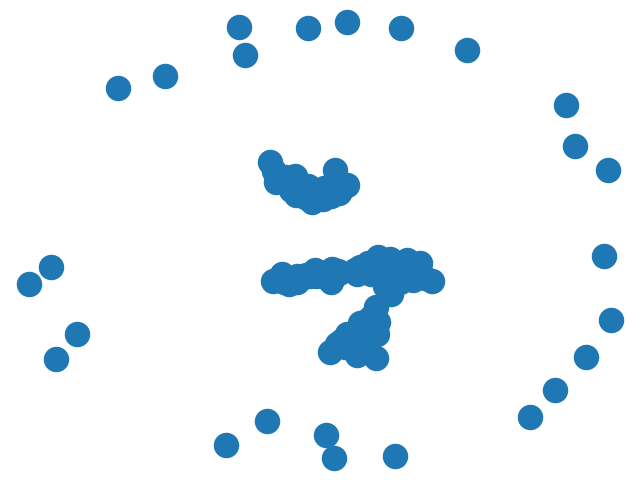
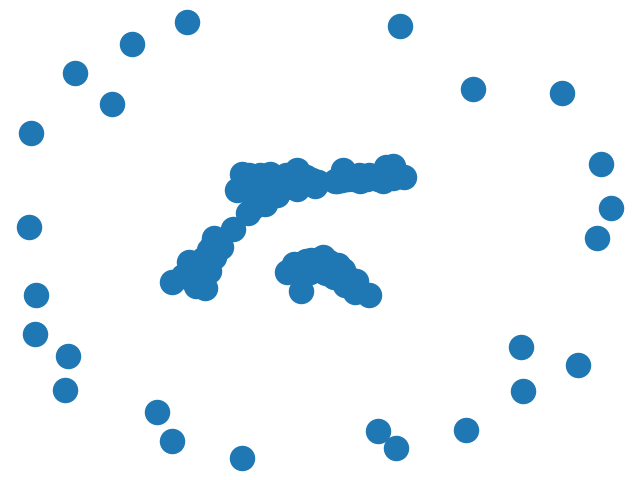
letters dataset results

diff --git a/dbscan_sklearn_large.py b/dbscan_sklearn_large.py
@@ -8,7 +8,7 @@ import networkx as nx
 import matplotlib.pyplot as plt
 import time
 import dbscanpp as dbp
-
+import scipy
 
 from sklearn.cluster import DBSCAN
 from sklearn import metrics
@@ -58,7 +58,15 @@ def data_load(dataset_name):
         eps_range = np.arange(start=250, stop=800, step=10)
 
     elif dataset_name == 'letters':
-        data = pd.read_csv('/media/kaveen/D/Datasets/DBScan_Data/G_mobile/train.csv')
+        data_pre = pd.read_csv('/media/kaveen/D/Datasets/DBScan_Data/J_letters/letter-recognition.data',header=None)
+        col_list = list(data_pre)
+        col_list[0], col_list[-1] = col_list[-1], col_list[0]
+        data_pre = data_pre.loc[:, col_list]
+        col_list[0], col_list[-1] = col_list[-1], col_list[0]
+        data_pre.columns = col_list
+        data = pd.DataFrame(data_pre)
+        # data.reset_index(drop=True)
+        #
         # print(data.head())
         D_shape = data.shape
         labelCol_idx = 16
@@ -66,7 +74,26 @@ def data_load(dataset_name):
 
         m = 551
         n = D_shape[0]
-        eps_range = np.arange(start=250, stop=800, step=10)
+        eps_range = np.arange(start=2, stop=10, step=0.5)
+
+    elif dataset_name == 'fashion':
+        data_pre = pd.read_csv('/media/kaveen/D/Datasets/DBScan_Data/L_fashion_MINST/fashion-mnist_train.csv')
+        col_list = list(data_pre)
+        col_list[0], col_list[-1] = col_list[-1], col_list[0]
+        data_pre = data_pre.loc[:, col_list]
+        # col_list[0], col_list[-1] = col_list[-1], col_list[0]
+        # data_pre.columns = col_list
+        data = pd.DataFrame(data_pre)
+        # data.reset_index(drop=True)
+        #
+        # print(data.head())
+        D_shape = data.shape
+        labelCol_idx = 784
+        listof_attributes = range(1, D_shape[1] - 1)
+
+        m = 5674
+        n = D_shape[0]
+        eps_range = np.arange(start=200, stop=100, step=1000)
 
     labels_true = data.iloc[:, labelCol_idx].values
     x = data.iloc[:, listof_attributes].values
@@ -105,7 +132,7 @@ def plot_clusters(x, labels_true, labels_pred, n_clusters, core_samples_mask, pl
 def main():
     print('Sklearn dbscan for large data')
 
-    dataset_name = 'mobile'
+    dataset_name = 'fashion'
 
     data, x, labels_true, eps_range, listof_attributes, m, n, factor, labelCol_idx = data_load(dataset_name)
 
@@ -137,14 +164,14 @@ def main():
 
         start_time = time.time()
         # DBSCAN algorithm from sklearn
-        db = DBSCAN(eps=eps, min_samples=minpts).fit(x)
-        endtime = time.time()
-        exec_time_db[i] = endtime - start_time
-        # print("---DBSCAN exec time =  %s seconds ---" % (exec_time_db[i]))
-
-        core_samples_mask = np.zeros_like(db.labels_, dtype=bool)
-        core_samples_mask[db.core_sample_indices_] = True
-        labels_db = db.labels_
+        # db = DBSCAN(eps=eps, min_samples=minpts).fit(x)
+        # endtime = time.time()
+        # exec_time_db[i] = endtime - start_time
+        # # print("---DBSCAN exec time =  %s seconds ---" % (exec_time_db[i]))
+        #
+        # core_samples_mask = np.zeros_like(db.labels_, dtype=bool)
+        # core_samples_mask[db.core_sample_indices_] = True
+        # labels_db = db.labels_
 
         # Plot clusters
         plot_clusters(x, labels_true, labels_db, n_clusters_db, core_samples_mask, plot_flag)
